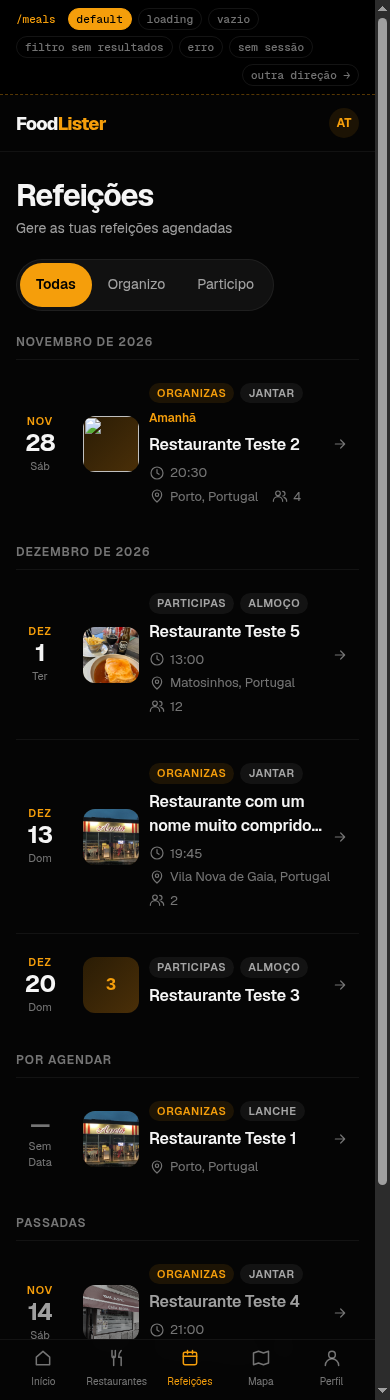
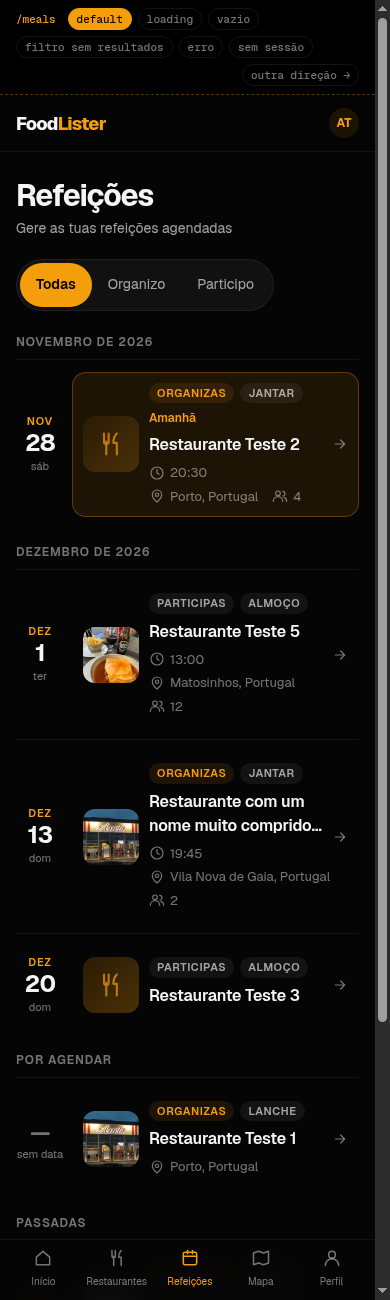
docs(mockups): /meals direção A refinada

diff --git a/docs/mockups/refeicoes/states.js b/docs/mockups/refeicoes/states.js
@@ -18,7 +18,7 @@ window.MK={ic,esc,mon,dnum,wk,monthLong,days,isPast,TYPE,
   list(){let l=window.MEALS.filter(m=>role==='all'||m.role===role);if(state==='noresults')l=[];return l},
   up(l){return l.filter(m=>!isPast(m)).sort((a,b)=>(a.meal_date||'9').localeCompare(b.meal_date||'9')||(a.meal_time||'').localeCompare(b.meal_time||''))},
   past(l){return l.filter(isPast).sort((a,b)=>b.meal_date.localeCompare(a.meal_date))},
-  thumb(m,cls=''){const r=m.restaurant;return `<div class="thumb ${cls}">${r.image?`<img src="${r.image}" alt="" loading="lazy" onerror="this.remove()">`:esc(r.name.replace(/\D/g,'')||r.name[0])}</div>`},
+  thumb(m,cls=''){const r=m.restaurant;return `<div class="thumb ${cls}" style="position:relative">${r.image?`<img style="position:relative;z-index:1" src="${r.image}" alt="" loading="lazy" onerror="this.remove()">`:''}<svg viewBox="0 0 24 24" style="width:28px;height:28px;opacity:.7;position:absolute;z-index:-0">${I.fork}</svg></div>`},
   info(m){const r=m.restaurant;return `<div class="meta">${m.meal_time?`<span>${ic('clock')}${m.meal_time}</span>`:''}${r.location&&r.location!==r.name?`<span>${ic('pin')}<span style="overflow:hidden;text-overflow:ellipsis;white-space:nowrap">${esc(r.location)}</span></span>`:''}${m.participant_count>0?`<span>${ic('users')}${m.participant_count}</span>`:''}</div>`},
   badges(m){return `<span class="tag${m.role==='organized'?'':' alt'}">${m.role==='organized'?'Organizas':'Participas'}</span>${m.meal_type&&TYPE[m.meal_type]?`<span class="tag alt">${TYPE[m.meal_type]}</span>`:''}`},
   boot(render){
@@ -31,7 +31,7 @@ window.MK={ic,esc,mon,dnum,wk,monthLong,days,isPast,TYPE,
       const head=`<h1>Refeições</h1><p class="sub">Gere as tuas refeições agendadas</p>`;
       if(state==='loading'){root.innerHTML=head+'<div style="margin-top:28px">'+'<div class="sk"></div>'.repeat(4)+'</div>';return}
       if(state==='error'){root.innerHTML=head+`<div class="state">${ic('alert').replace('<svg','<svg style="width:32px;height:32px;color:var(--danger)"')}<h2>Não foi possível carregar as refeições</h2><p>Verifica a ligação e tenta de novo.</p><a class="btn" href="?state=default">Tentar de novo</a></div>`;return}
-      if(state==='empty'){root.innerHTML=head+`<div class="state"><img src="assets/tovi-a-pensar.svg" alt=""><h2>Nenhuma refeição agendada</h2><p>Agenda uma refeição a partir de qualquer restaurante.</p><a class="btn" href="#">Explorar Restaurantes ${ic('arrow')}</a></div>`;return}
+      if(state==='empty'){root.innerHTML=head+`<div class="state"><img style="position:relative;z-index:1" src="assets/tovi-a-pensar.svg" alt=""><h2>Nenhuma refeição agendada</h2><p>Agenda uma refeição a partir de qualquer restaurante.</p><a class="btn" href="#">Explorar Restaurantes ${ic('arrow')}</a></div>`;return}
       const seg=`<div class="seg" role="group" aria-label="Filtrar refeições">${[['all','Todas'],['organized','Organizo'],['participating','Participo']].map(([k,l])=>`<button aria-pressed="${role===k}" data-r="${k}">${l}</button>`).join('')}</div>`;
       const l=MK.list();
       root.innerHTML=head+seg+(l.length?render(l):`<div class="state"><p>Nenhuma refeição nesta vista.</p><button class="btn" data-r="all">Ver todas</button></div>`);

diff --git a/docs/mockups/refeicoes/a-agenda.html b/docs/mockups/refeicoes/a-agenda.html
@@ -2,10 +2,10 @@
 <style>
 /* A · Agenda: lista cronológica agrupada por mês; a data é o eixo, o restaurante a imagem. */
 .row{display:grid;grid-template-columns:64px 1fr;gap:16px;padding:12px 0;align-items:center;border-top:1px solid var(--line)}
-.date{text-align:center;line-height:1}.date small{display:block;font-size:11px;letter-spacing:.08em;text-transform:uppercase;color:var(--primary);font-weight:600}.date b{display:block;font-size:30px;font-weight:700;letter-spacing:-.03em;margin:4px 0 2px}.date em{font-style:normal;font-size:11px;color:var(--fg-3);text-transform:capitalize}
+.date{text-align:center;line-height:1}.date small{display:block;font-size:11px;letter-spacing:.08em;text-transform:uppercase;color:var(--primary);font-weight:600}.date b{display:block;font-size:30px;font-weight:700;letter-spacing:-.03em;margin:4px 0 2px}.date em{display:block;font-style:normal;font-size:11px;color:var(--fg-3)}.date em::first-letter{text-transform:uppercase}
 .body{display:grid;grid-template-columns:72px 1fr 20px;gap:14px;align-items:center;min-width:0;padding:10px;border-radius:14px;border:1px solid transparent;transition:background .2s,border-color .2s}.body:hover{background:rgba(255,255,255,.03);border-color:var(--card-border)}
 .body .thumb{width:72px;height:72px;border-radius:12px}.body>div{min-width:0;display:grid;gap:6px}.tags{display:flex;gap:6px;flex-wrap:wrap}.body>svg{color:var(--fg-3)}
-.soon{font-size:12px;color:var(--primary);font-weight:600}
+.next .body{background:var(--primary-soft);border-color:rgba(245,158,11,.3)}.soon{font-size:12px;color:var(--primary);font-weight:600}
 .past .name,.past .date b{color:var(--fg-2)}.past .thumb{filter:grayscale(.8) opacity(.7)}
 .undated .date b{font-size:22px;color:var(--fg-3)}
 @media(max-width:480px){.row{grid-template-columns:48px 1fr;gap:8px}.body{grid-template-columns:56px 1fr 16px;gap:10px}.body .thumb{width:56px;height:56px}.date b{font-size:24px}}
@@ -14,7 +14,7 @@
 <main class="page"><div class="wrap" id="root"></div></main>
 <script src="data.js"></script><script src="states.js"></script>
 <script>
-const row=(m,cls='')=>{const d=!!m.meal_date,n=d?MK.days(m.meal_date):null;
+const row=(m,cls='')=>{const d=!!m.meal_date,n=d?MK.days(m.meal_date):null;if(n!==null&&n>=0&&n<=2)cls+=' next';
 return `<div class="row ${cls}${d?'':' undated'}"><div class="date">${d?`<small>${MK.mon(m.meal_date)}</small><b>${MK.dnum(m.meal_date)}</b><em>${MK.wk(m.meal_date).slice(0,3)}</em>`:'<b>—</b><em>sem data</em>'}</div>
 <a class="body" href="#meals/${m.id}">${MK.thumb(m)}<div><div class="tags">${MK.badges(m)}${n!==null&&n>=0&&n<=2?`<span class="soon">${n===0?'Hoje':n===1?'Amanhã':'Em 2 dias'}</span>`:''}</div><h3 class="name">${MK.esc(m.restaurant.name)}</h3>${MK.info(m)}</div>${MK.ic('arrow')}</a></div>`};
 MK.boot(l=>{const up=MK.up(l),pa=MK.past(l);let h='',cur='';
